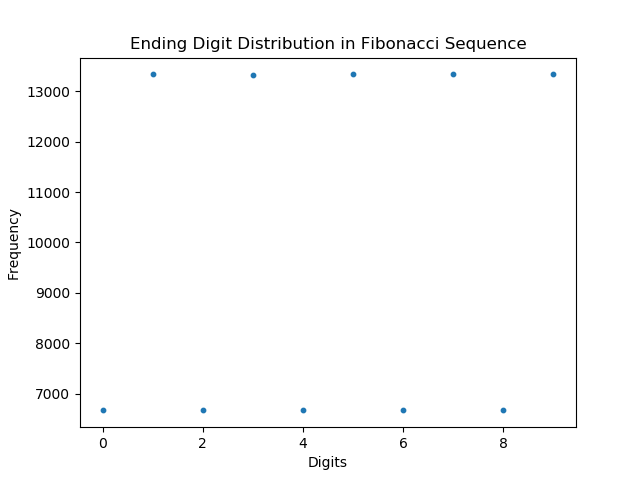
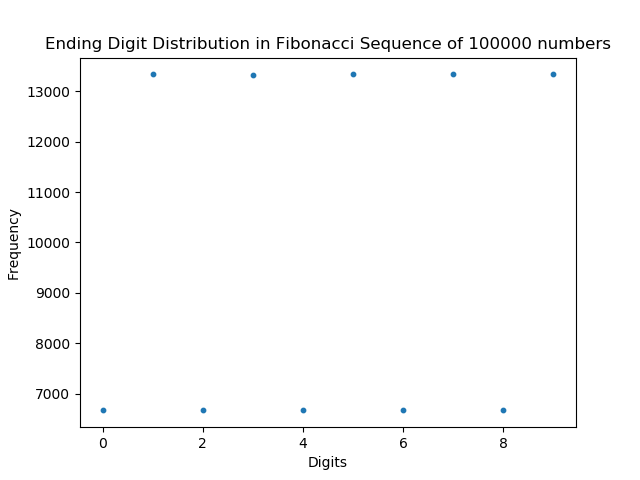
Problem 2 - Fibonacci, update plot titles

Changed region(s): [[0.0625, 0.0625, 0.9688, 0.125]]

diff --git a/early_alert_numerical_analysis/problem2_fibonacci/fibonacci.py b/early_alert_numerical_analysis/problem2_fibonacci/fibonacci.py
@@ -33,7 +33,7 @@ for i in range(n_numbers):
         print(i, end=' ')
 
 # Generate plot for starting digit distribution
-plt.title('Starting Digit Distribution in Fibonacci Sequence')
+plt.title('Starting Digit Distribution in Fibonacci Sequence of {} numbers'.format(n_numbers))
 plt.xlabel("Digits")
 plt.ylabel("Frequency")
 plt.scatter(x=list(range(10)), y=starting_digits, s=10)
@@ -41,7 +41,7 @@ plt.savefig('fibonacci_{}_start.png'.format(n_numbers))
 plt.close()
 
 # Generate plot for ending digit distribution
-plt.title('Ending Digit Distribution in Fibonacci Sequence')
+plt.title('Ending Digit Distribution in Fibonacci Sequence of {} numbers'.format(n_numbers))
 plt.xlabel("Digits")
 plt.ylabel("Frequency")
 plt.scatter(x=list(range(10)), y=ending_digits, s=10)
